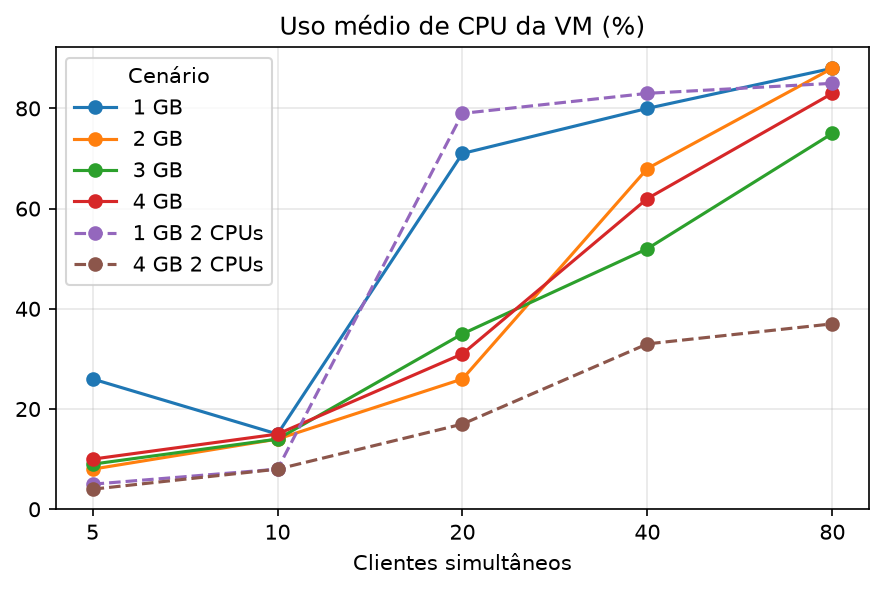
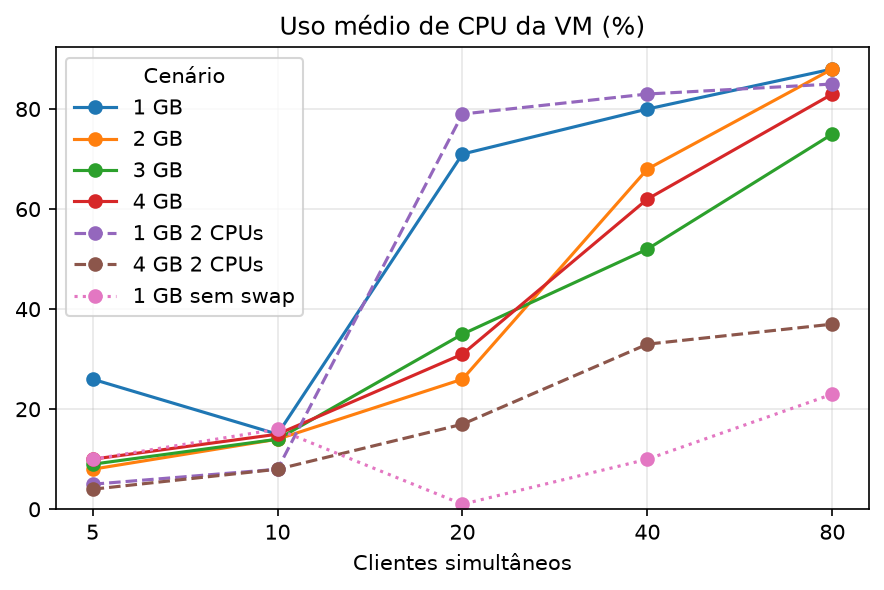
feat: add no-swap memory experiment metrics

diff --git a/MemoryBound/plot.py b/MemoryBound/plot.py
@@ -11,6 +11,7 @@ METRICAS = [
     ("cpu_pct", "Uso médio de CPU da VM (%)"),
     ("mem_pico_mb", "Pico de memória usada na VM (MB)"),
     ("swap_pico_mb", "Pico de swap usado na VM (MB)"),
+    ("concluidas_pct", "Requisições concluídas (%)"),
 ]
 
 with open("resultados.csv") as f:
@@ -24,7 +25,8 @@ for coluna, titulo in METRICAS:
         dados = [l for l in linhas if l["cenario"] == cenario and l[coluna]]
         x = [int(l["clientes"]) for l in dados]
         y = [float(l[coluna]) for l in dados]
-        plt.plot(x, y, marker="o", label=cenario, linestyle="--" if "CPUs" in cenario else "-")
+        estilo = "--" if "CPUs" in cenario else ":" if "sem swap" in cenario else "-"
+        plt.plot(x, y, marker="o", label=cenario, linestyle=estilo)
     plt.title(titulo)
     plt.xlabel("Clientes simultâneos")
     plt.xscale("log", base=2)

diff --git a/MemoryBound/README.md b/MemoryBound/README.md
@@ -50,3 +50,10 @@ o teste, acompanhe memória, swap e CPU no Prometheus e tire prints.
 pip install matplotlib
 python3 plot.py
 ```
+
+## Experimento extra: sem swap
+
+Para testar o cenário de 1 GB sem swap, depois de ligar a VM rode
+`sudo swapoff -a` dentro dela (o swap volta no próximo boot) e, na máquina
+hospedeira, `./loadtest.sh "1 GB sem swap"`. Os resultados entram no mesmo
+`resultados.csv` e nos mesmos gráficos.
